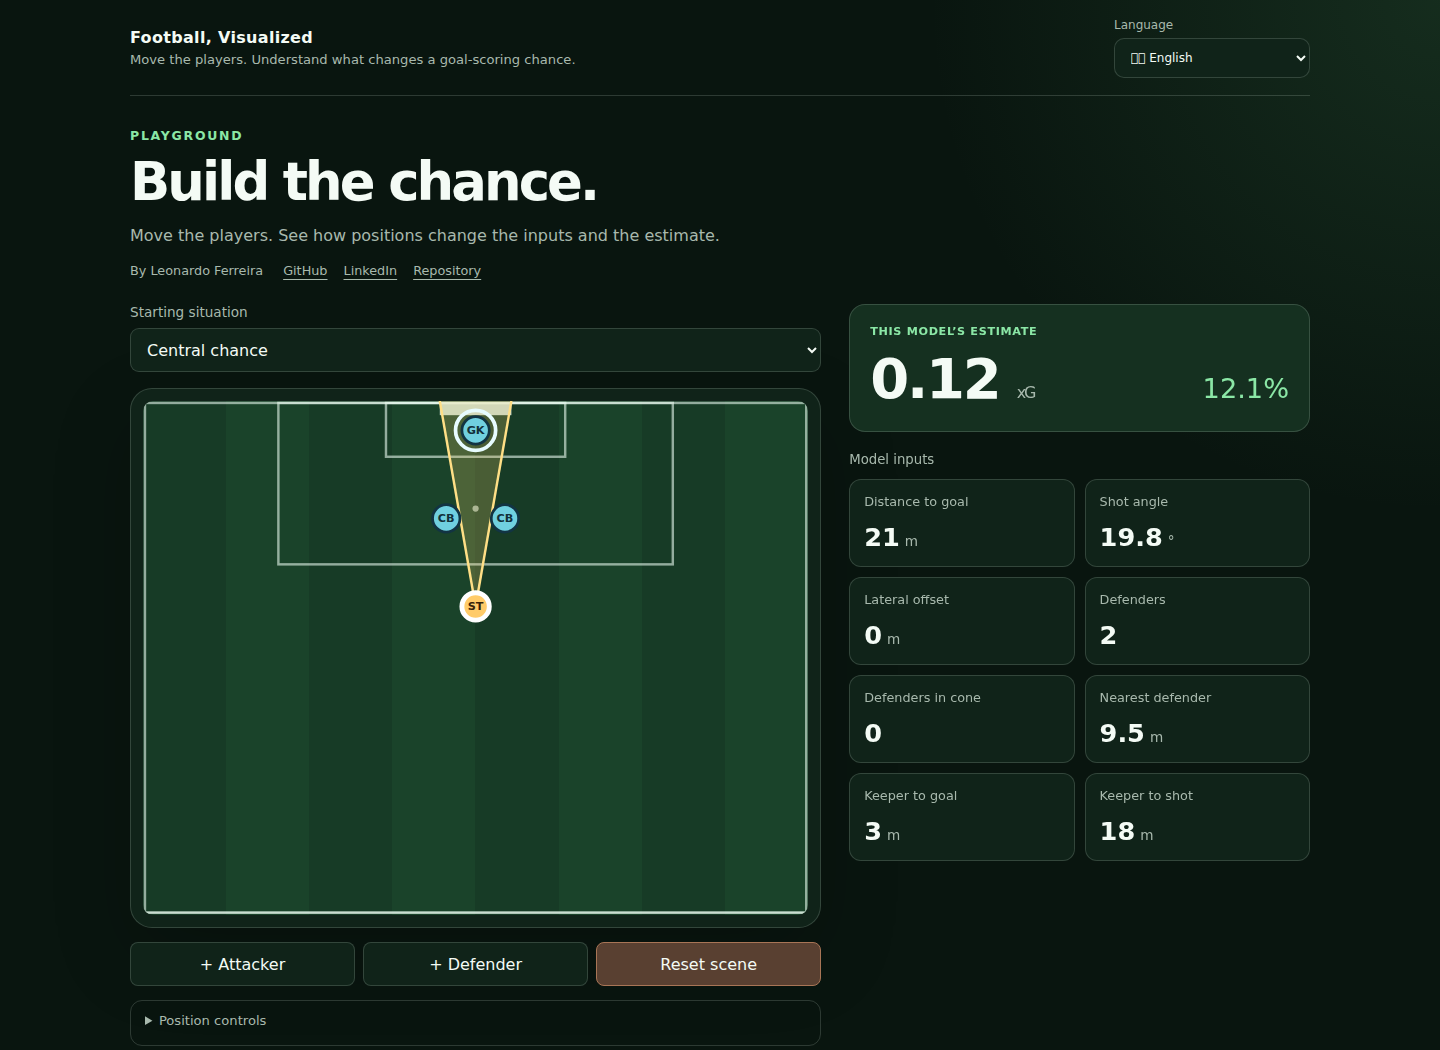
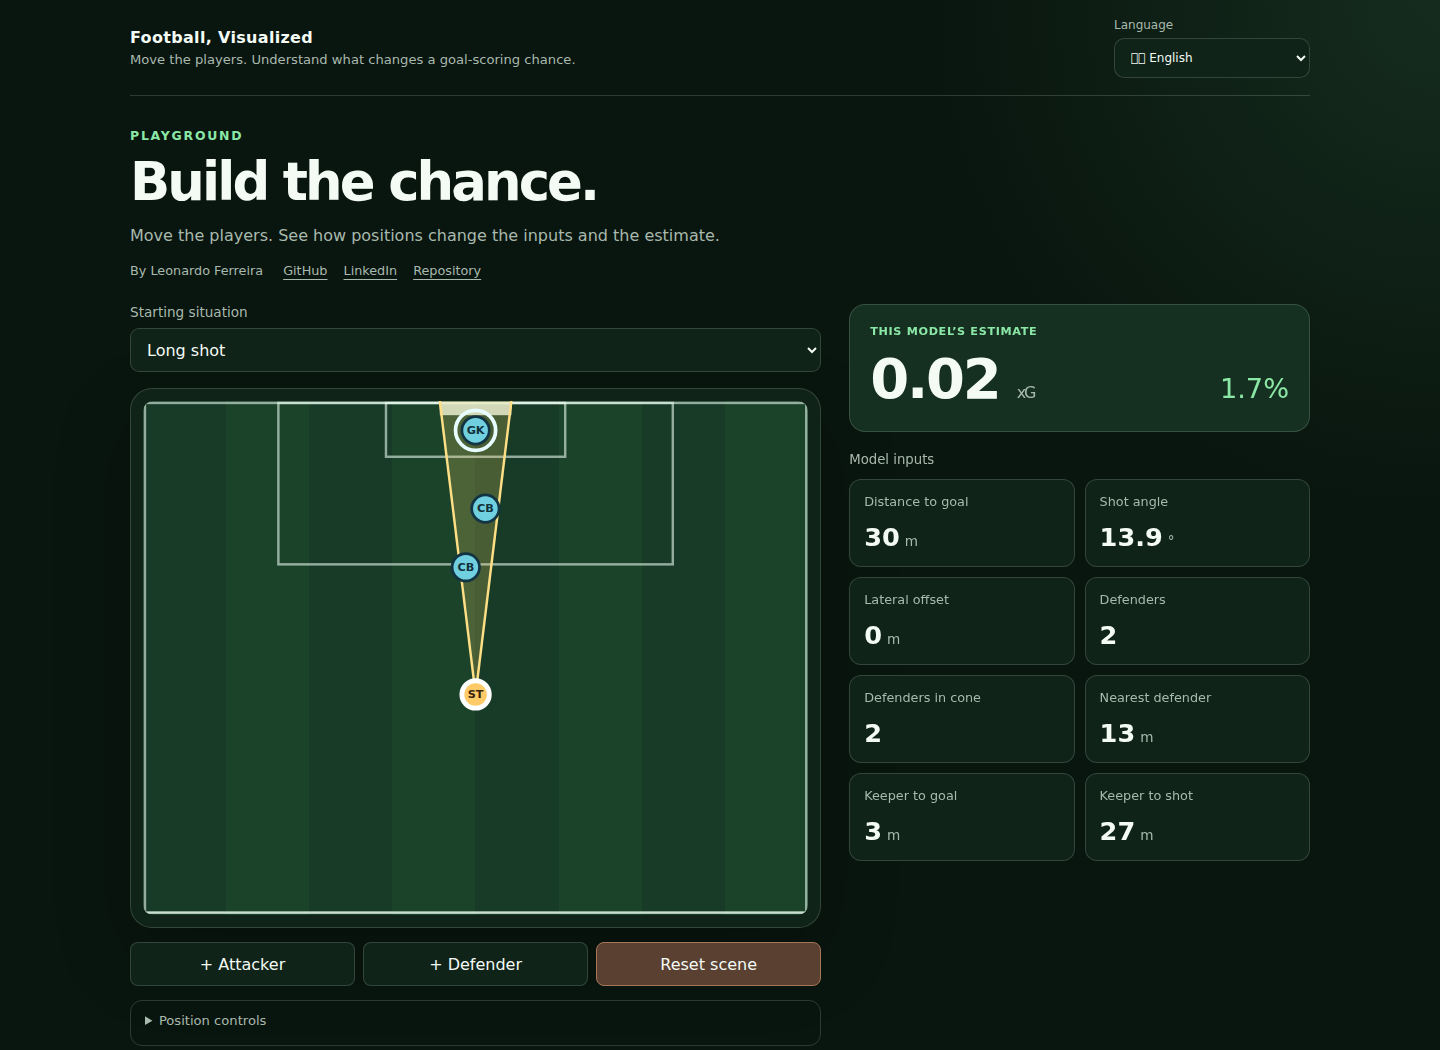
Fix player drag targets and penalty additions; refresh portfolio capture

diff --git a/lib/scenario.ts b/lib/scenario.ts
@@ -73,13 +73,25 @@ export function addPlayer(scenario: Scenario, team: "attacker" | "defender"): Sc
     const restored = scenario.removedBaseDefenders[0];
     const next: Scenario = { ...scenario, removedBaseDefenders: scenario.removedBaseDefenders.filter(id => id !== restored) };
     if (!next.removedBaseDefenders?.length) delete next.removedBaseDefenders;
-    return next;
+    return scenario.shotType === "penalty"
+      ? movePlayer(next, restored, penaltyAddition(team, restored === "defender1" ? 0 : 1))
+      : next;
   }
   const shooter = scenario.players.shooter;
   const point = team === "attacker"
     ? { x: shooter.x - 4 - Math.floor(index / 2) * 3, y: shooter.y + (index % 2 ? -1 : 1) * (6 + Math.floor(index / 2) * 3) }
     : { x: (shooter.x + scenario.players.goalkeeper.x) / 2, y: FIELD.centerY + (index % 2 ? -1 : 1) * (9 + Math.floor(index / 2) * 3) };
-  return { ...scenario, [key]: [...scenario[key], clampPosition(point)] };
+  return { ...scenario, [key]: [...scenario[key], clampPosition(
+    scenario.shotType === "penalty" ? penaltyAddition(team, index) : point,
+  )] };
+}
+
+function penaltyAddition(team: "attacker" | "defender", index: number): Point {
+  // Keep the entire marker behind the area, independently of the edited shooter.
+  return {
+    x: FIELD.length - 16.5 - FIELD.markerRadius - (team === "attacker" ? 3 : 1) - Math.floor(index / 2) * 3,
+    y: FIELD.centerY + (index % 2 ? -1 : 1) * (6 + Math.floor(index / 2) * 3),
+  };
 }
 
 export function isValidPosition(value: unknown): value is Point {

diff --git a/lib/playground.test.ts b/lib/playground.test.ts
@@ -68,6 +68,18 @@ describe("actual reviewed model and evidence", () => {
 });
 
 describe("deliberate defender editing and snapshots", () => {
+  it("adds every penalty participant outside the area even after editing and restoration", () => {
+    let scene = movePlayer(getPreset("penalty"), "shooter", { x: 100, y: 34 });
+    for (let i = 0; i < 9; i++) scene = addPlayer(scene, "attacker");
+    scene = addPlayer(scene, "defender");
+    for (const p of [...scene.extraAttackers, ...scene.extraDefenders]) {
+      expect(p.x + 1.4).toBeLessThan(105 - 16.5);
+    }
+    scene = movePlayer(scene, "defender1", { x: 100, y: 34 });
+    scene = addPlayer(removePlayer(scene, "defender1"), "defender");
+    expect(scene.players.defender1.x + 1.4).toBeLessThan(105 - 16.5);
+    expect(defenderCount(scene)).toBe(3);
+  });
   it("supports zero through three defenders without changing the feature domain", () => {
     let scene = getPreset("centralChance");
     scene = removePlayer(removePlayer(scene, "defender1"), "defender2");

diff --git a/app/[locale]/globals.css b/app/[locale]/globals.css
@@ -204,7 +204,8 @@ h1 {
 
 .pitch-player { cursor: grab; touch-action: none; }
 .pitch-player:active { cursor: grabbing; }
-.player-hit { fill: transparent; }
+.pitch-player { pointer-events: none; }
+.player-body { pointer-events: all; }
 .player-body { fill: #70d0e0; stroke: #123443; stroke-width: 0.28; }
 .pitch-player--attacker .player-body { fill: #ffcb69; stroke: #50360c; }
 .goalkeeper-ring { fill: none; stroke: #e7fcff; stroke-width: 0.38; pointer-events: none; }

diff --git a/components/playable-pitch.tsx b/components/playable-pitch.tsx
@@ -315,7 +315,6 @@ export function PlayablePitch({ locale, copy }: Props) {
                   onPointerCancel={stopDrag}
                   onLostPointerCapture={stopDrag}
                 >
-                  <circle className="player-hit" r="4.5" />
                   {id === "goalkeeper" && (
                     <circle className="goalkeeper-ring" r="2.05" />
                   )}

diff --git a/docs/architecture/reference/playground-and-methodology.md b/docs/architecture/reference/playground-and-methodology.md
@@ -10,6 +10,10 @@
 
 The pitch is on the left and results/cards on the right at desktop widths. On mobile, the result becomes a compact sticky strip, followed by the pitch and a two-column card grid. The strip is bounded by the Playground so it does not follow visitors into Methodology. Position inputs are available in a disclosure; mouse, touch and marker keyboard movement remain immediate. Count cards have no distance units. With zero defenders the nearest-defender card shows no value rather than presenting the sentinel as a physical distance. Penalty cards are explicitly scene measurements, while the separately labeled estimate stays fixed.
 
+Pointer selection uses the visible player body only; labels and the decorative goalkeeper ring cannot intercept a drag. Pointer capture on the group continues movement outside the body. When visible bodies overlap, normal SVG paint order applies; position controls remain available for selecting obscured players. Added penalty attackers/defenders, including restored base defenders, start with their whole marker behind the penalty-area boundary regardless of edited shooter coordinates. Subsequent manual movement remains unrestricted within the existing field bounds.
+
+`scripts/check-player-interactions.mjs` verifies nearby-player selection, capture, body-only hit bounds, penalty additions and screenshot proportions. It starts the local production server on `PRODUCT_QA_PORT` (default 3010); `PRODUCT_QA_BASE_URL` selects an existing remote target instead. Set `README_CAPTURE=1` to refresh the English README image with the declared synthetic 30 m shot and two defenders in the cone. It uses an explicit 1440 × 1050 viewport and device scale factor 1. As with the broader browser checks, Playwright is optional external QA tooling; `INFERENCE_CHROMIUM_EXECUTABLE` can select a compatible executable.
+
 `components/methodology-content.tsx` server-renders evidence below the Playground on `/en#methodology`, `/br#methodology`, `/nl#methodology`, `/es#methodology` and `/de#methodology`, using `lib/xg-evidence.ts`. Scrolling between sections preserves the mounted scene; no jump or return links are shown. The previous dedicated methodology routes in all five locales return 307 redirects to the corresponding anchor, preserving shared links. Locale switching retains the anchor and scene. There are no section tabs or technical-links promotional block. Support/illustration, omitted factors, tree plateaus and scientific limitations remain in Methodology, along with the source credit and shared footer.
 
 The learned field/feature contract, original presets and model parameters are unchanged. Deliberate removed-marker metadata changes only the UI adapter. No descriptive support warning disables valid inference. Original preset classifications disappear after editing; no training reference rows or per-shot predictions are shipped.

diff --git a/README.md b/README.md
@@ -4,7 +4,7 @@ An interactive xG playground for football fans, analysts and curious engineers. 
 
 A portfolio project by **Leonardo Ferreira** · [GitHub](https://github.com/leovferreira13) · [LinkedIn](https://www.linkedin.com/in/leonardo-v-ferreira)
 
-![English Playground with an illustrative central chance and eight live feature cards](assets/portfolio/playground.png)
+![English Playground with an illustrative long shot, two defenders in the cone and eight live feature cards](assets/portfolio/playground.png)
 
 **[Open the live Playground](https://sports-data-visualizer-production.up.railway.app/en)**
 
